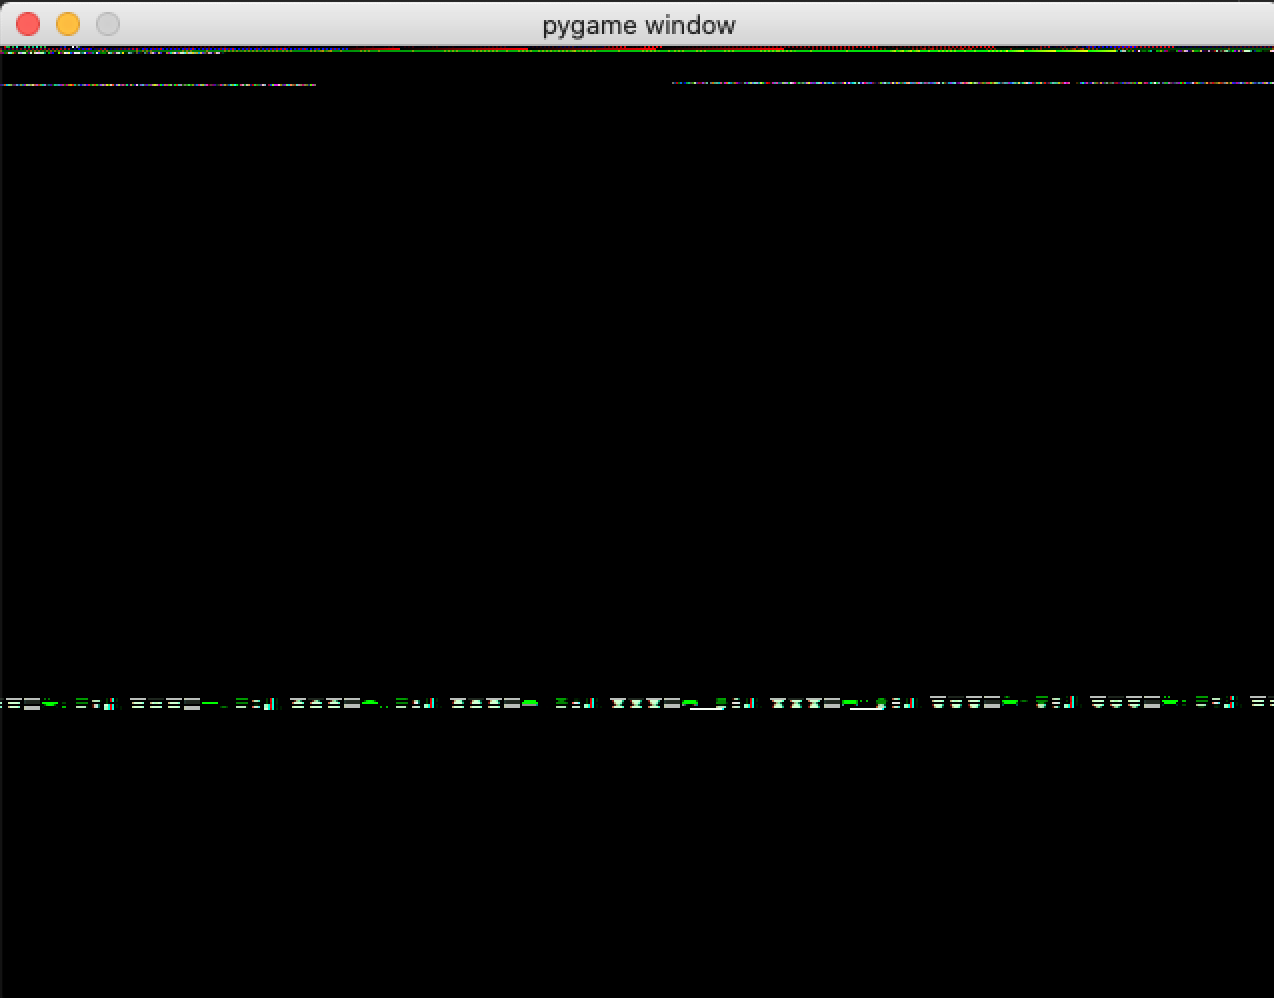
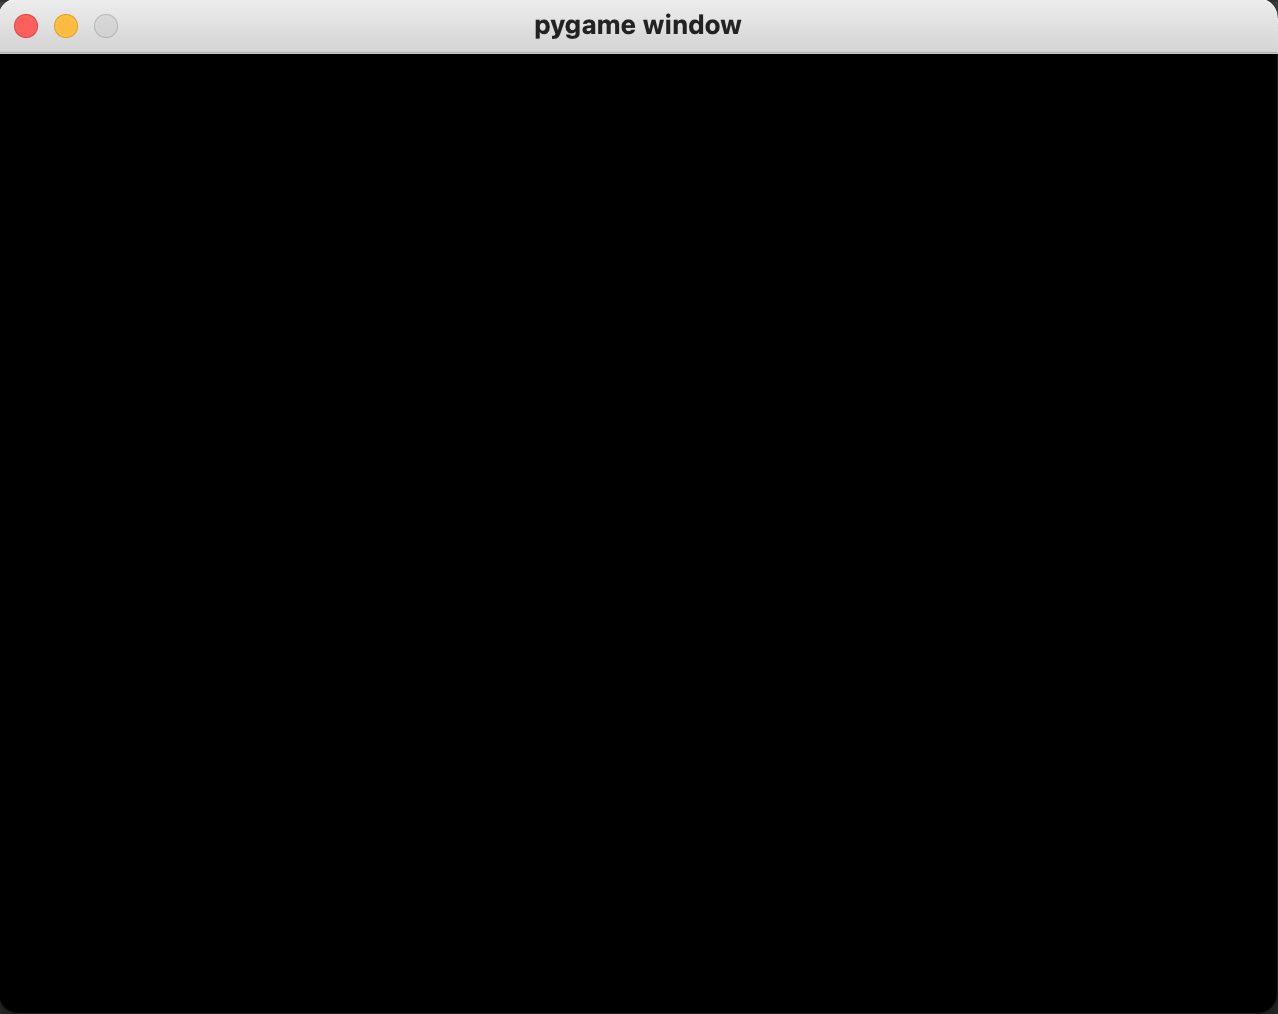
Remove section about glitched background color
This was a MacOS specific bug. Also, it doesn't even seem to be happening for me anymore.

diff --git a/README.md b/README.md
@@ -66,16 +66,11 @@ while True:
 
 ![Alt text](01-getting-started/screenshots/window.png?raw=true)
 
-Yay, we have a window! But why does it look so weird?
+Yay, we have a window!
 
-When we run our program, there is a section of the computer's memory that's storing the pixels that are drawn to our
-window object. However, we haven't told Pygame to draw anything so whatever data was in this part of the computer's
-memory from the start is what will be shown in our window. That's no good! Let's tell Pygame to fill the entire window
-with a background color!
-
-In Pygame, graphics are always handled with the `Surface` class (more on this later). To fill our window with a color,
-we need a surface that represents the window! We're in luck. It turns out that the `set_mode` function returns exactly
-this! Let's get hold the surface and start painting!
+But what if we want to change the background color? In Pygame, graphics are always handled with the `Surface` class (
+more on this later). To fill our window with a color, we need a surface that represents the window! We're in luck. It
+turns out that the `set_mode` function returns exactly this! Let's get hold the surface and start painting!
 
 ```python
 size = (640, 480)
